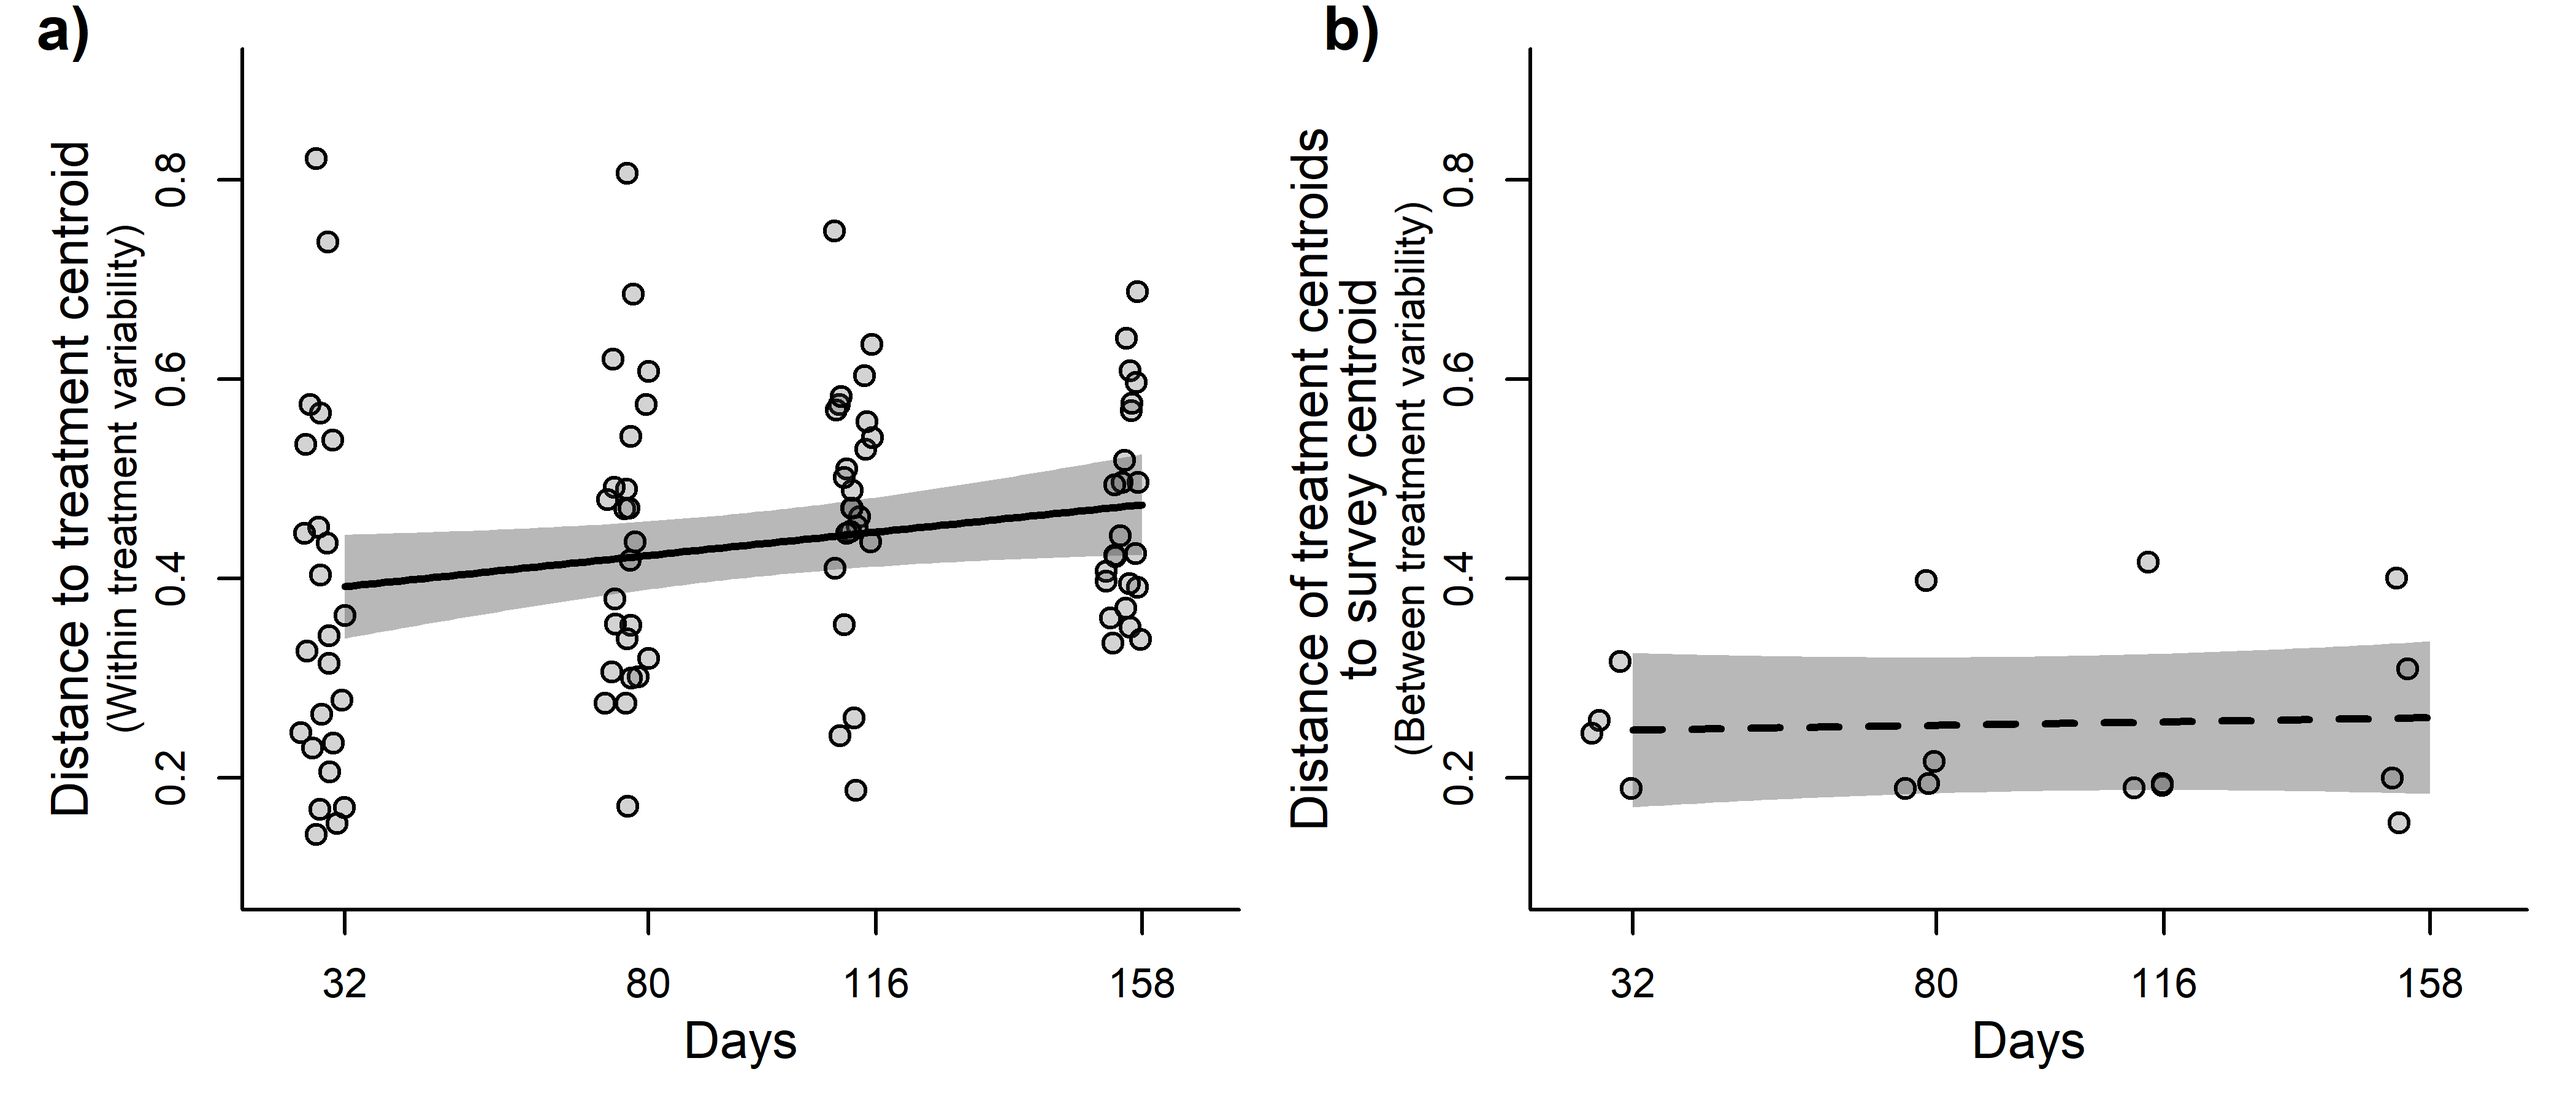
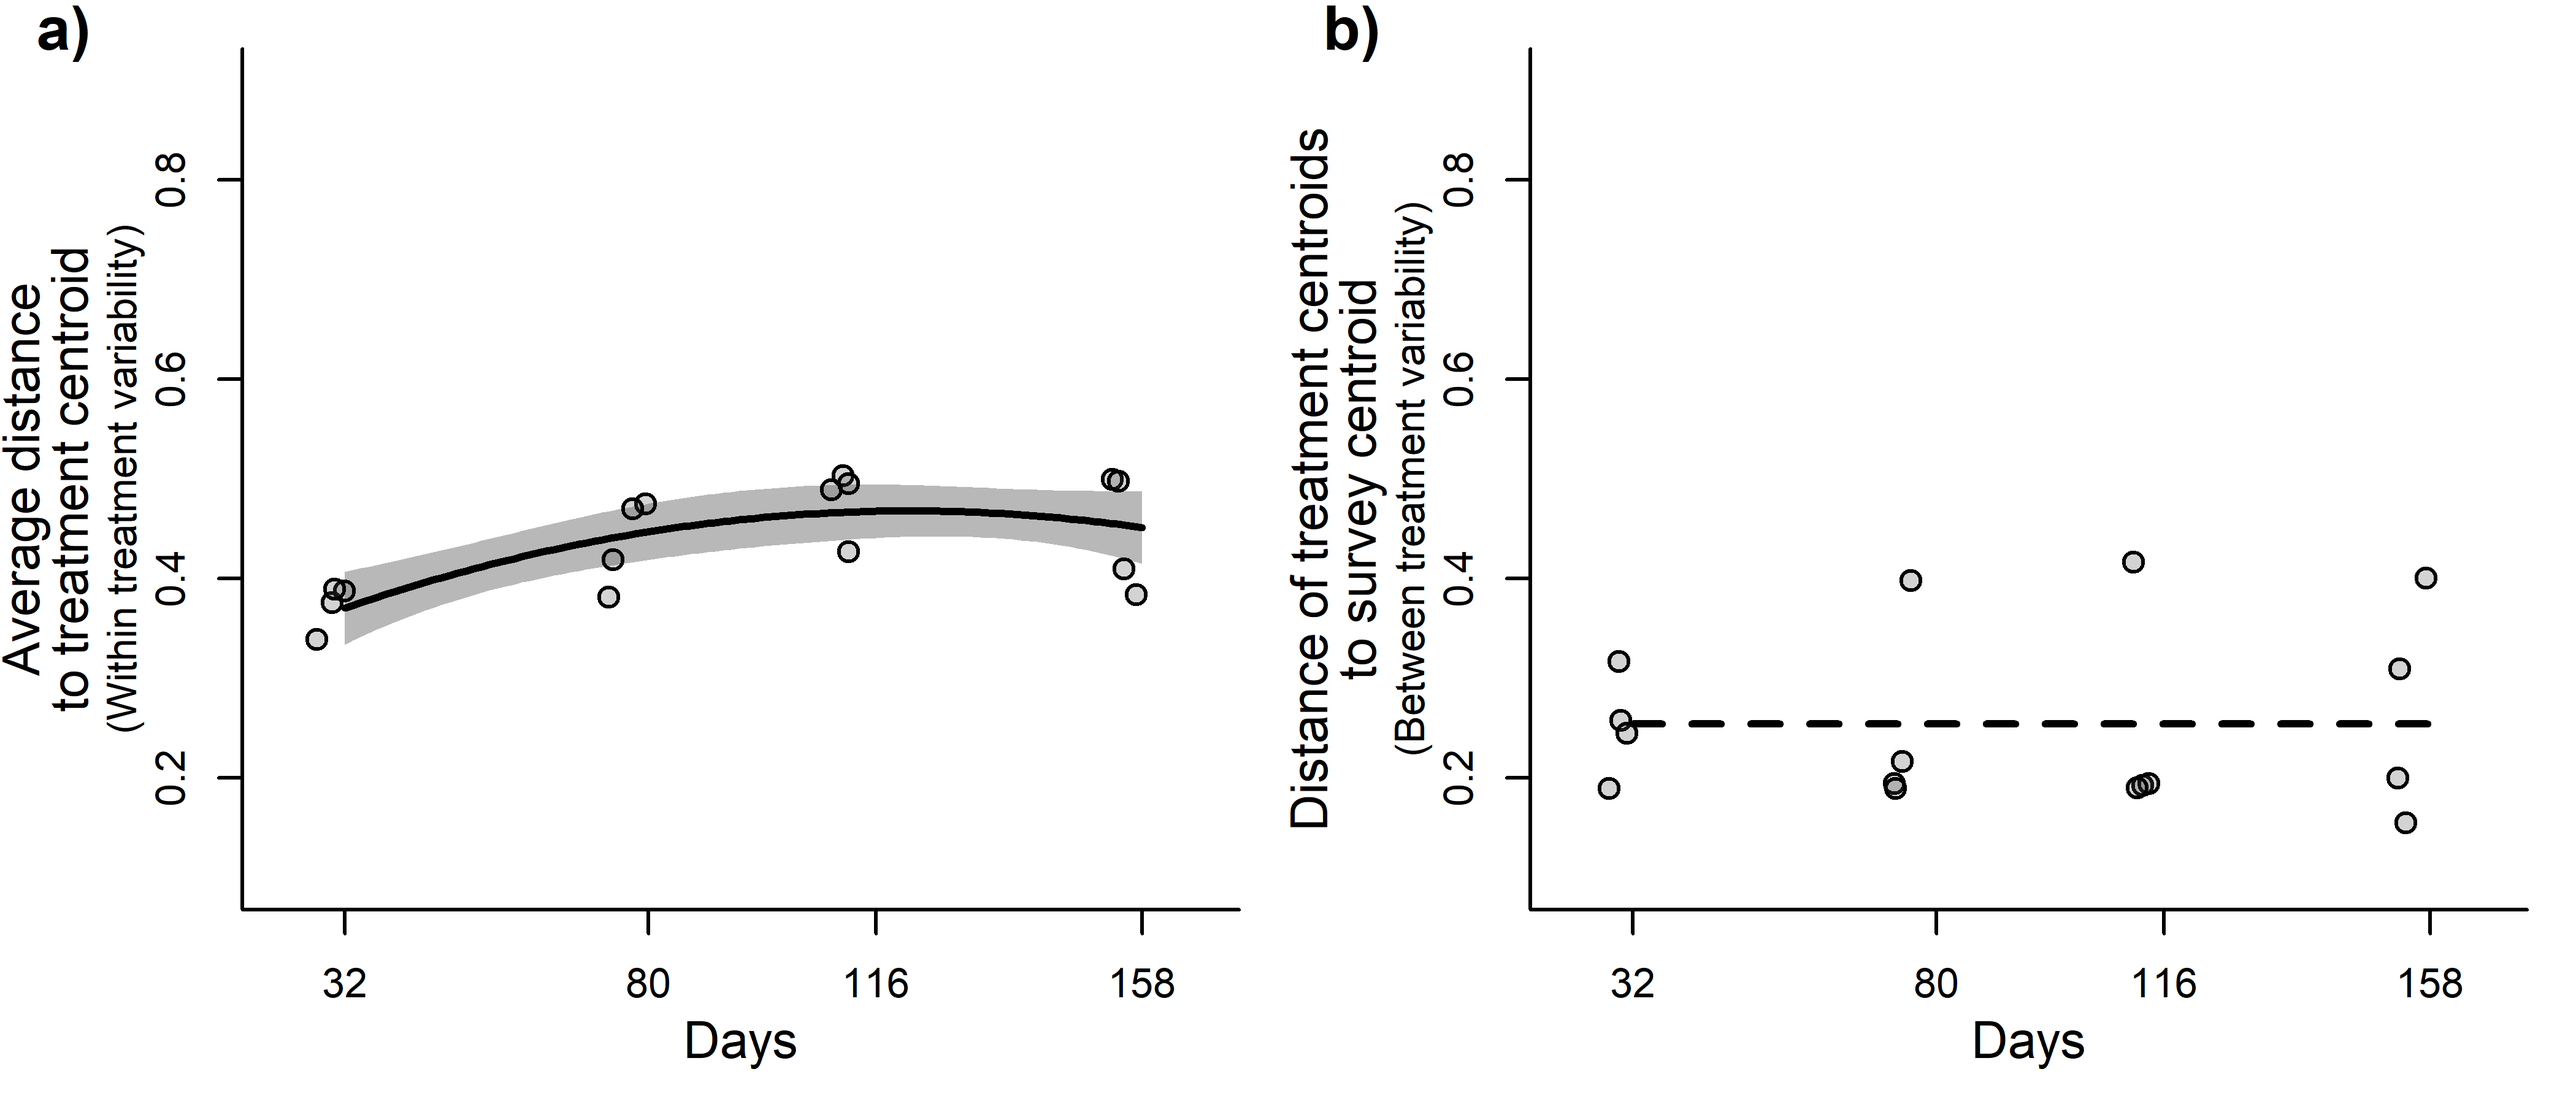
Change in between and within treatment variability

diff --git a/Markdowns/between_within_variability.md b/Markdowns/between_within_variability.md
@@ -99,8 +99,6 @@ Exp_design_all_2$AM_days_quad <- Exp_design_all_2$AM_days^2
 
 distance <- vegdist(comm_all_2, method = "bray")
 
-#distance <- vegdist(mod_plot_all$best$lvs, method = "euclidean")
-
 Exp_design_all_2$treatments_AM <- interaction(Exp_design_all_2$treatments, Exp_design_all_2$AM)
 
 beta_obj <- betadisper(distance, group = Exp_design_all_2$treatments_AM)
@@ -112,7 +110,15 @@ beta_obj <- betadisper(distance, group = Exp_design_all_2$treatments_AM)
 ``` r
 within_group_distances <- beta_obj$group.distances
 
-data_within <- data.frame(within_dist = beta_obj$distance, AM_days = Exp_design_all_2$AM_days, sites = Exp_design_all_2$sites)
+New_AM <- c(rep(32, 4), rep(80, 4), rep(116, 4), rep(158, 4))
+
+New_AM <- scale(New_AM)
+attr_New_AM <- attributes(New_AM)
+New_AM <- scale(New_AM)[,1]
+
+treatments <- rep(c("control", "both_exclusion", "drag_exclusion", "amph_exclusion"), 4)
+
+data_within <- data.frame(within_dist = within_group_distances, AM_days = New_AM, treatments = treatments)
 ```
 
 ## between groups distances
@@ -136,7 +142,7 @@ dist_between <- vegdist(cent_var, method = "euclidean")
 
 beta_between_obj <- betadisper(dist_between, group = New_AM)
 
-treatments <- rep(c("control", "closed", "drag_exclusion", "amph_exclusion"), 4)
+treatments <- rep(c("control", "both_exclusion", "drag_exclusion", "amph_exclusion"), 4)
 
 data_between <- data.frame(between_dist = beta_between_obj$distance, AM_days = New_AM, treatments = treatments)
 ```
@@ -144,9 +150,9 @@ data_between <- data.frame(between_dist = beta_between_obj$distance, AM_days = N
 ## Models
 
 ``` r
-mod_beta_whitin0 <- glmmTMB(within_dist ~ 1 + (1|sites), family = "gaussian", data = data_within)
-mod_beta_whitin1 <- glmmTMB(within_dist ~ AM_days + (1|sites), family = "gaussian", data = data_within)
-mod_beta_whitin2 <- glmmTMB(within_dist ~ AM_days + I(AM_days^2) + (1|sites), family = "gaussian", data = data_within)
+mod_beta_whitin0 <- glmmTMB(within_dist ~ 1 + (1|treatments), family = "gaussian", data = data_within)
+mod_beta_whitin1 <- glmmTMB(within_dist ~ AM_days + (1|treatments), family = "gaussian", data = data_within)
+mod_beta_whitin2 <- glmmTMB(within_dist ~ AM_days + I(AM_days^2) + (1|treatments), family = "gaussian", data = data_within)
 plot(simulateResiduals(mod_beta_whitin2))
 ```
 
@@ -159,13 +165,13 @@ anova_within
 
     ## Data: data_within
     ## Models:
-    ## mod_beta_whitin0: within_dist ~ 1 + (1 | sites), zi=~0, disp=~1
-    ## mod_beta_whitin1: within_dist ~ AM_days + (1 | sites), zi=~0, disp=~1
-    ## mod_beta_whitin2: within_dist ~ AM_days + I(AM_days^2) + (1 | sites), zi=~0, disp=~1
+    ## mod_beta_whitin0: within_dist ~ 1 + (1 | treatments), zi=~0, disp=~1
+    ## mod_beta_whitin1: within_dist ~ AM_days + (1 | treatments), zi=~0, disp=~1
+    ## mod_beta_whitin2: within_dist ~ AM_days + I(AM_days^2) + (1 | treatments), zi=~0, disp=~1
     ##                  Df     AIC     BIC logLik deviance  Chisq Chi Df Pr(>Chisq)  
-    ## mod_beta_whitin0  3 -81.999 -74.306 44.000  -87.999                           
-    ## mod_beta_whitin1  4 -84.018 -73.760 46.009  -92.018 4.0184      1    0.04501 *
-    ## mod_beta_whitin2  5 -84.284 -71.463 47.142  -94.284 2.2666      1    0.13219  
+    ## mod_beta_whitin0  3 -42.385 -40.067 24.192  -48.385                           
+    ## mod_beta_whitin1  4 -46.590 -43.500 27.295  -54.590 6.2052      1    0.01274 *
+    ## mod_beta_whitin2  5 -49.326 -45.463 29.663  -59.326 4.7361      1    0.02954 *
     ## ---
     ## Signif. codes:  0 '***' 0.001 '**' 0.01 '*' 0.05 '.' 0.1 ' ' 1
 
@@ -203,7 +209,7 @@ new_data_days_within <- data.frame(AM_days = seq(from= min(data_within$AM_days),
 new_data_days_between <- data.frame(AM_days = seq(from= min(data_between$AM_days), to = max(data_between$AM_days), length.out = 100),
                        AM_days_quad = seq(from= min(data_between$AM_days), to = max(data_between$AM_days), length.out = 100)^2)
 
-predicted_within <- predict(mod_beta_whitin1, newdata = new_data_days_within, se.fit = TRUE, re.form = NA)
+predicted_within <- predict(mod_beta_whitin2, newdata = new_data_days_within, se.fit = TRUE, re.form = NA)
 predicted_within$upper <- predicted_within$fit + predicted_within$se.fit * qnorm(0.975)
 predicted_within$lower <- predicted_within$fit + predicted_within$se.fit * qnorm(0.025) 
 
@@ -235,8 +241,10 @@ points(data_within$within_dist ~ jitter(AM_days-0.075, 0.5), pch = 21, col= "bla
 
 lines(x = new_data_days_within$AM_days,y = predicted_within$fit, col = "black", lwd = 2)
 
-title(ylab = "Distance to treatment centroid", cex.lab = 1.25, line= 3)
+title(ylab = "Average distance", cex.lab = 1.25, line= 4)
+title(ylab = "to treatment centroid", cex.lab = 1.25, line= 3)
 title(ylab = "(Within treatment variability)", cex.lab = 1, line= 2)
+
 
 axis(1, at = unique_AM_days_within, labels = c("32", "80", "116", "158"))
 title(xlab = "Days", cex.lab = 1.25 ,line = 2.25)
@@ -257,12 +265,15 @@ par(mar  = c(4,5,1,1), bty = "l", new = FALSE)
 plot(data_between$between_dist ~ jitter(AM_days, 1),
      data = data_between, xaxt = "n", ylab = "", xlab = "", type = "n", ylim = c(0.1,0.9), xlim = c(min(unique_AM_days_between)*1.25,max(unique_AM_days_between)*1.25),  xaxs = "i")
 
-polygon(x = c(new_data_days_between$AM_days[1:100], new_data_days_between$AM_days[100:1]),
-        y = c(predicted_between$upper[1:100], predicted_between$lower[100:1]), col = transparent("grey30", trans.val = 0.6), border = FALSE) 
+#polygon(x = c(new_data_days_between$AM_days[1:100], new_data_days_between$AM_days[100:1]),
+#        y = c(predicted_between$upper[1:100], predicted_between$lower[100:1]), col = transparent("grey30", trans.val = 0.6), border = FALSE) 
 
 points(data_between$between_dist ~ jitter(AM_days-0.075, 0.5), pch = 21, col= "black",bg = transparent("grey30", trans.val = 0.75), cex = 1.1, data = data_between)
 
-lines(x = new_data_days_between$AM_days,y = predicted_between$fit, col = "black", lwd = 2, lty = 2)
+#lines(x = new_data_days_between$AM_days,y = predicted_between$fit, col = "black", lwd = 2, lty = 2)
+lines(x = new_data_days_between$AM_days,y = rep(mean(data_between$between_dist), length(new_data_days_between$AM_days)), col = "black", lwd = 2, lty = 2)
+
+
 
 title(ylab = "Distance of treatment centroids", cex.lab = 1.25, line= 4)
 title(ylab = "to survey centroid", cex.lab = 1.25, line= 3)
